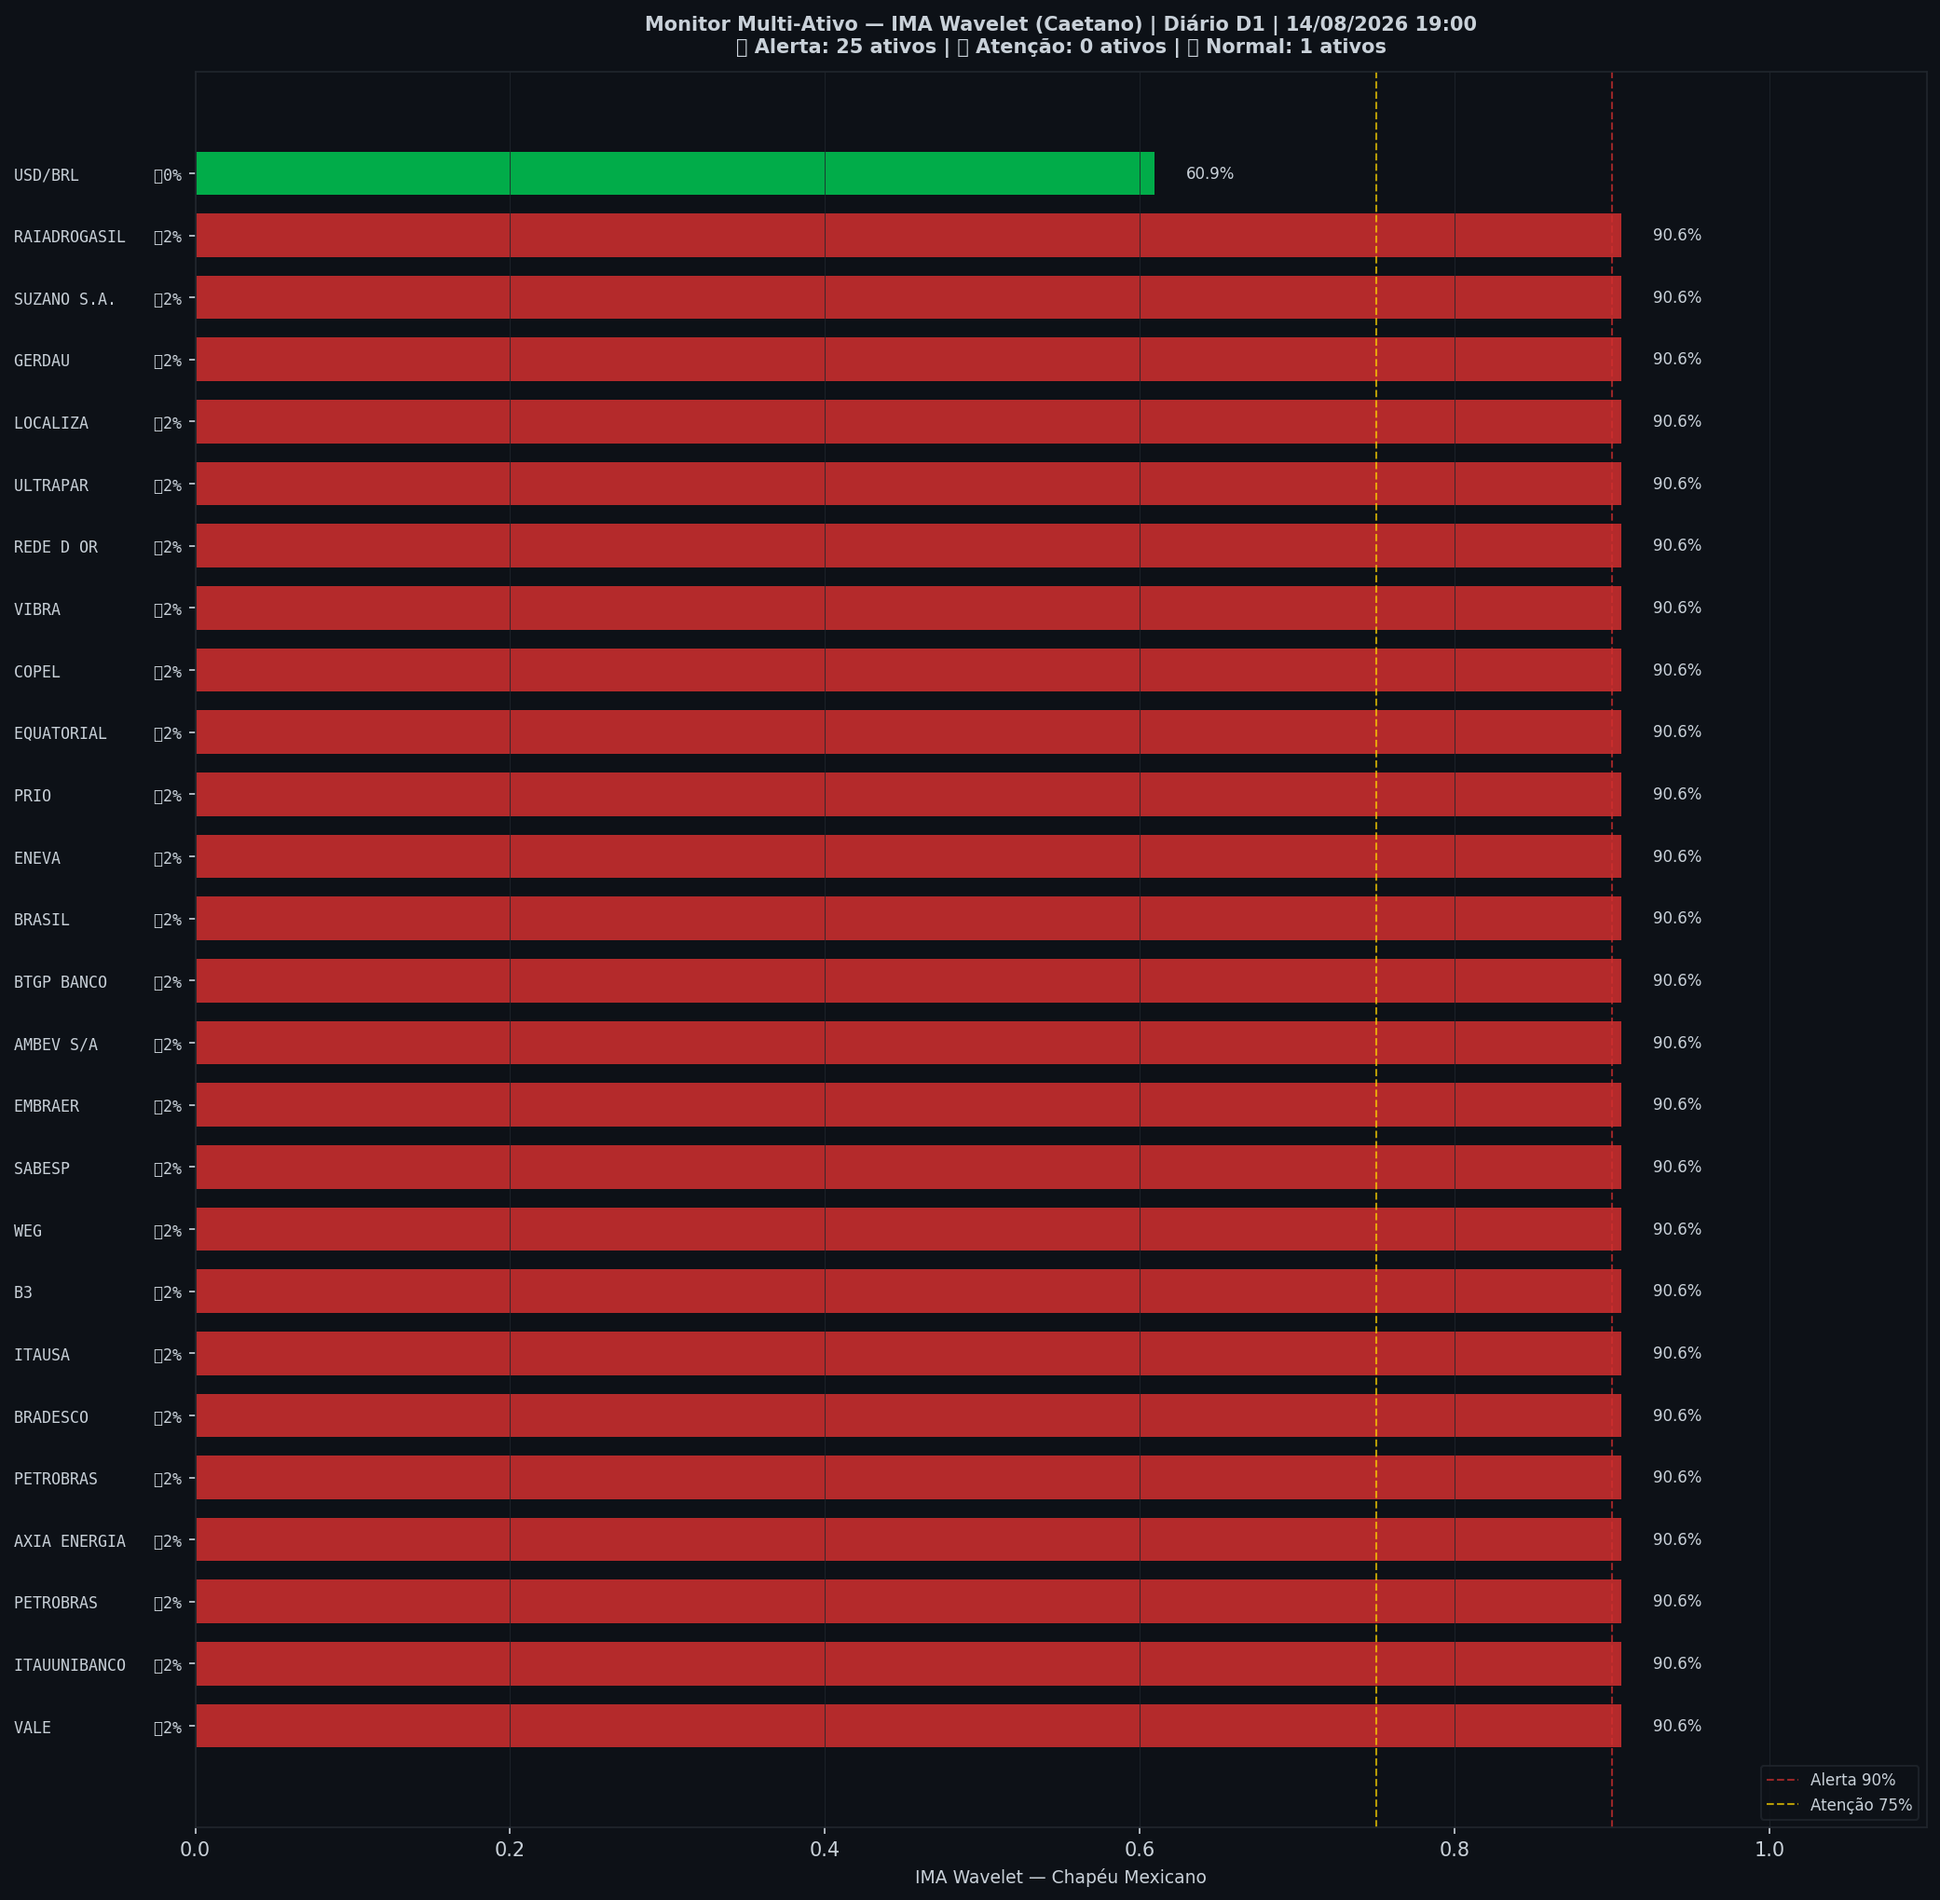
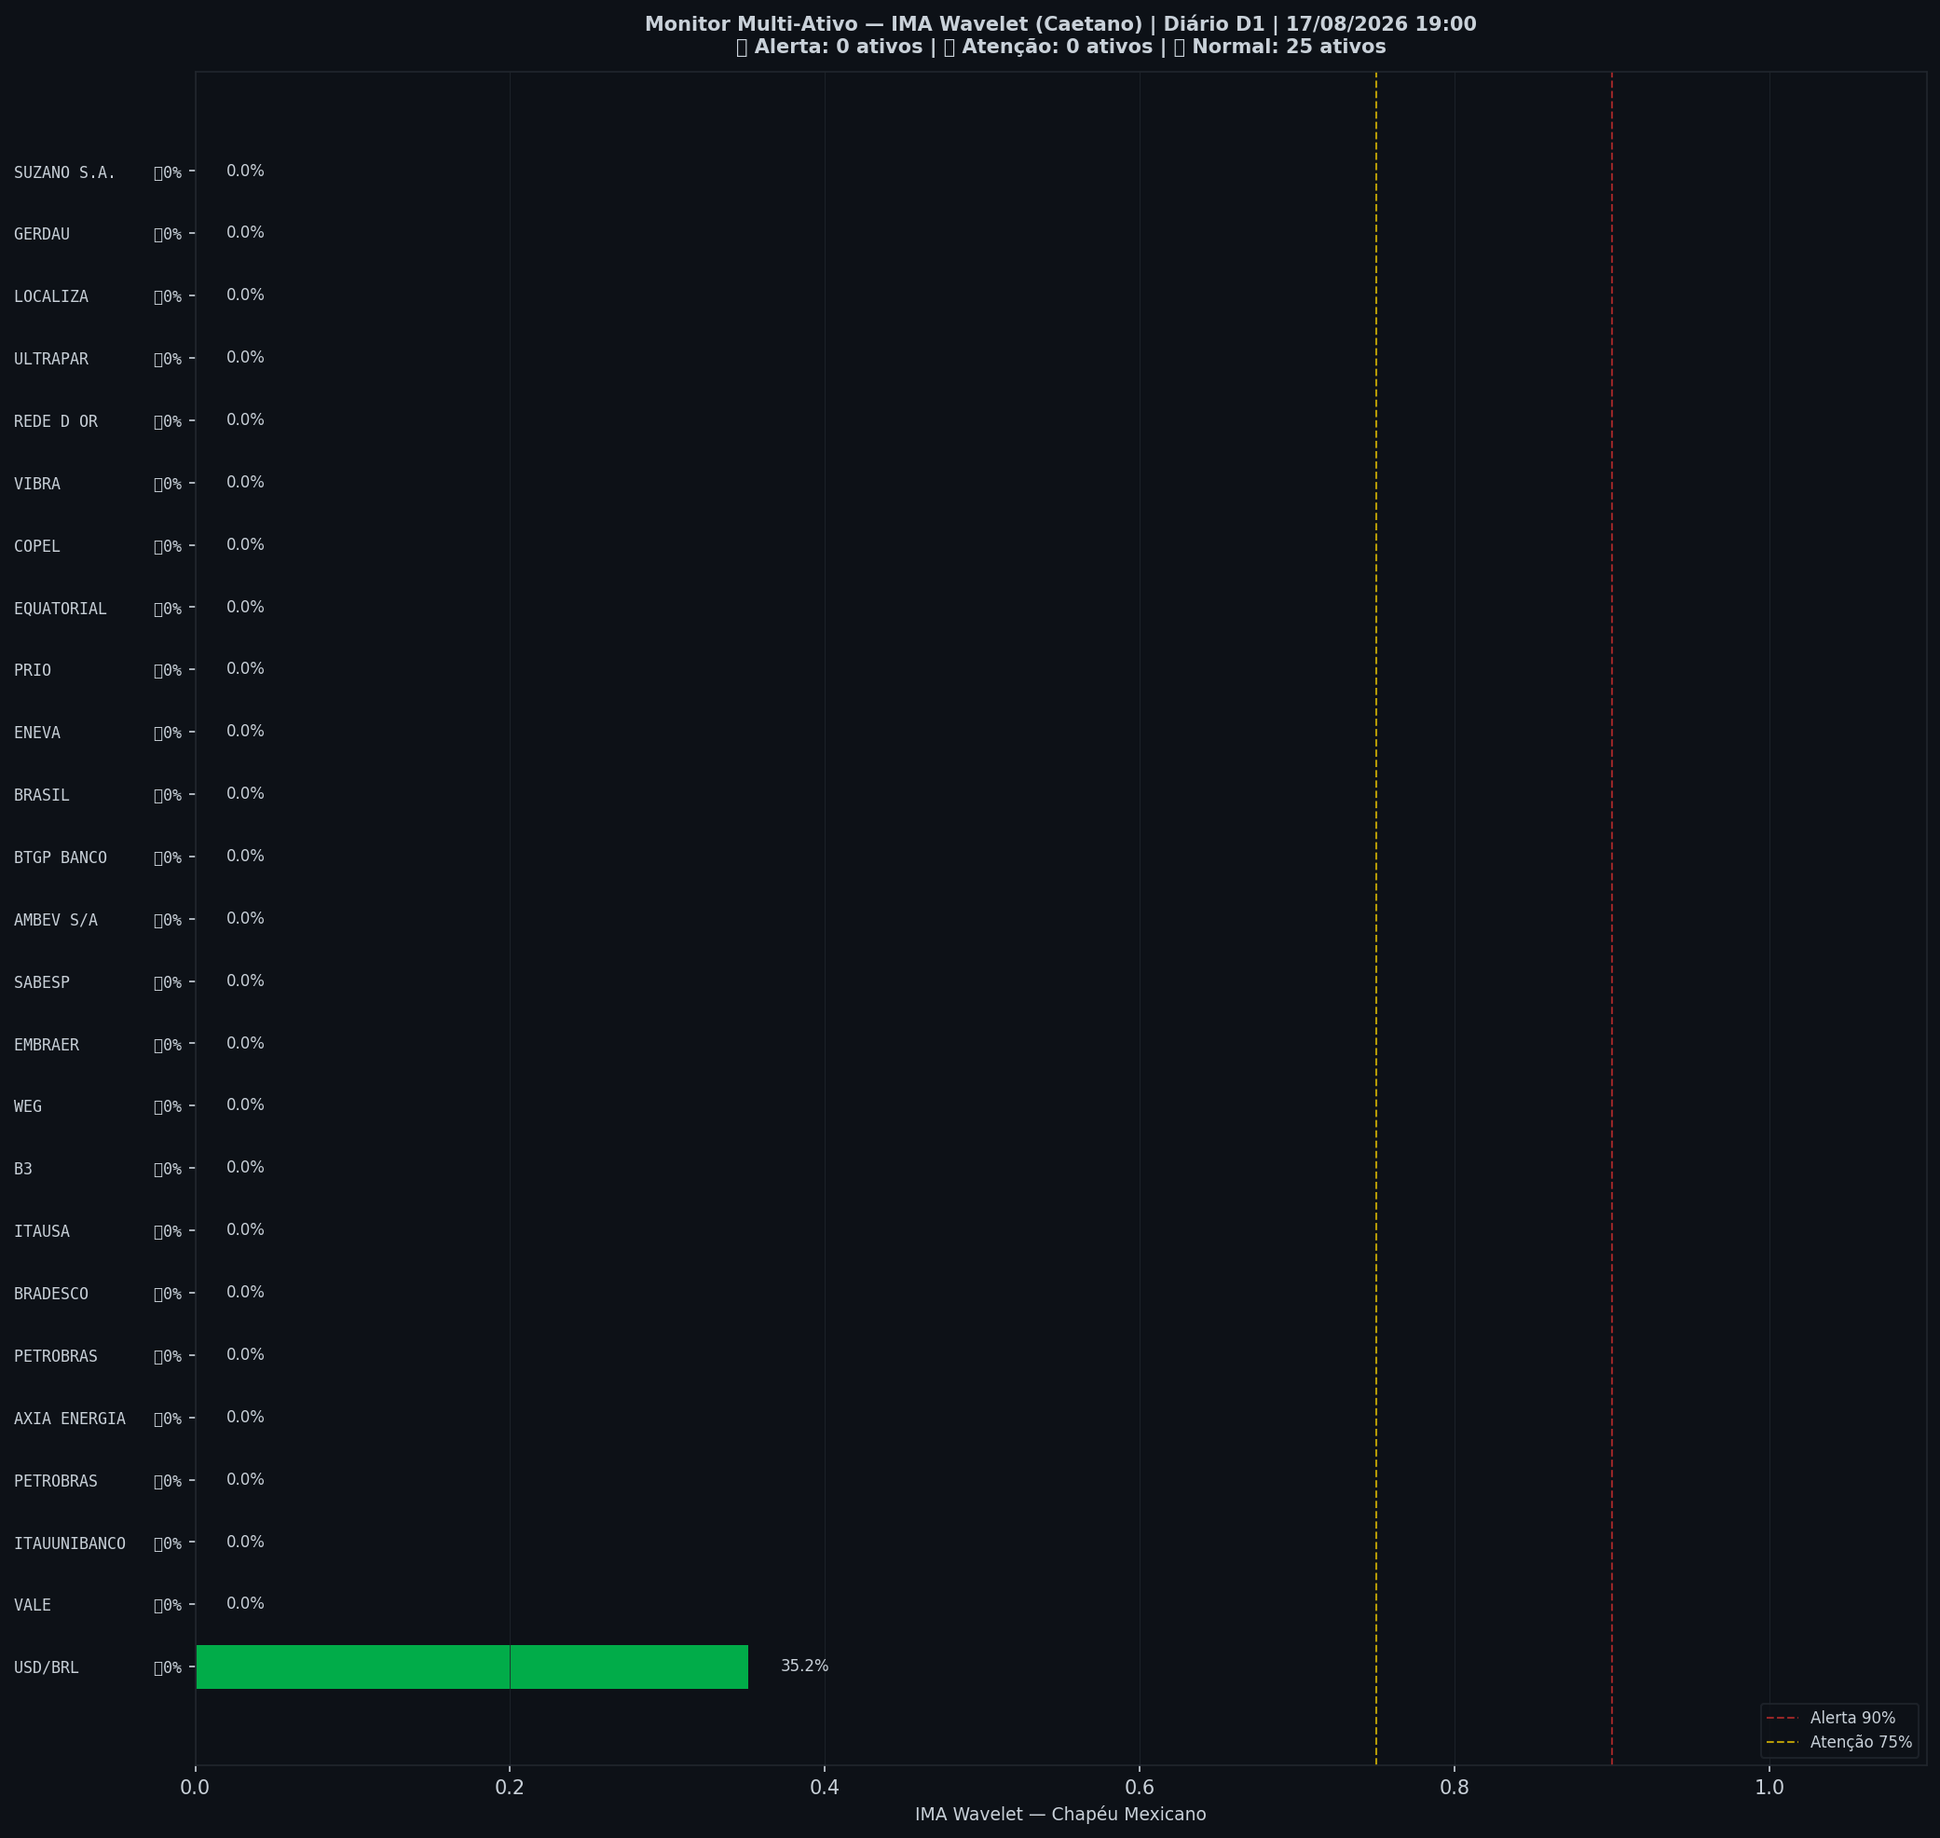
🤖 Auto: Sinal 17/08/2026 19:00

diff --git a/content/diario/2026-08-16.md b/content/diario/2026-08-16.md
@@ -1,0 +1,103 @@
+---
+title: "🟢 Diário 16/08/2026 — VERDE"
+date: 2026-08-17
+tags: [diario]
+---
+
+> [!success] 🟢 **VERDE** — Risco 0% · ＝ +0 p.p. vs leitura anterior
+> `░░░░░░░░░░░░░░░░░░░░`
+> Mercado sem sinais relevantes de estresse.
+
+
+| Indicador | Valor |
+|---|---|
+| 🔴 ζ Crash — severidade da queda em curso | **0%** |
+| 🔵 ζ Entrada — estrutura de fundo | 25% |
+| 🫧 LPPL DS-Confidence | 0% |
+| 📊 Ibovespa | 166.784 pts |
+
+![Gráfico do sinal](../graficos/sinal_diario.png)
+
+## Últimos 30 pregões
+
+| Data | Zona | Risco | IMA Crash | Entrada | LPPL |
+|---|---|---|---|---|---|
+| 2026-08-16 21:00 | 🟢 VERDE | **0%** | 0% | 25% | 0% |
+| 2026-08-13 21:00 | 🟢 VERDE | **0%** | 0% | 23% | 0% |
+| 2026-08-12 21:00 | 🟢 VERDE | **0%** | 0% | 20% | 0% |
+| 2026-08-11 21:00 | 🟢 VERDE | **0%** | 0% | 65% | 0% |
+| 2026-08-10 21:00 | 🟢 VERDE | **0%** | 1% | 62% | 0% |
+| 2026-08-09 21:00 | 🟢 VERDE | **1%** | 2% | 7% | 0% |
+| 2026-08-06 21:00 | 🟢 VERDE | **0%** | 1% | 48% | 0% |
+| 2026-08-05 21:00 | 🟢 VERDE | **0%** | 1% | 50% | 0% |
+| 2026-08-04 21:00 | 🟢 VERDE | **0%** | 0% | 55% | 0% |
+| 2026-08-03 21:00 | 🟢 VERDE | **0%** | 0% | 59% | 0% |
+| 2026-08-02 21:00 | 🟢 VERDE | **0%** | 0% | 62% | 0% |
+| 2026-07-30 21:00 | 🟢 VERDE | **0%** | 0% | 65% | 0% |
+| 2026-07-29 21:00 | 🟢 VERDE | **0%** | 0% | 68% | 0% |
+| 2026-07-28 21:00 | 🟢 VERDE | **0%** | 0% | 69% | 0% |
+| 2026-07-27 21:00 | 🟢 VERDE | **0%** | 1% | 68% | 0% |
+| 2026-07-26 21:00 | 🟢 VERDE | **0%** | 1% | 71% | 0% |
+| 2026-07-23 21:00 | 🟢 VERDE | **0%** | 0% | 71% | 0% |
+| 2026-07-22 21:00 | 🟢 VERDE | **0%** | 0% | 73% | 0% |
+| 2026-07-21 21:00 | 🟢 VERDE | **0%** | 0% | 77% | 0% |
+| 2026-07-20 21:00 | 🟢 VERDE | **0%** | 0% | 80% | 0% |
+| 2026-07-19 21:00 | 🟢 VERDE | **0%** | 1% | 79% | 0% |
+| 2026-07-16 21:00 | 🟢 VERDE | **0%** | 0% | 80% | 0% |
+| 2026-07-15 21:00 | 🟢 VERDE | **0%** | 1% | 80% | 0% |
+| 2026-07-14 21:00 | 🟢 VERDE | **1%** | 2% | 81% | 0% |
+| 2026-07-13 21:00 | 🟢 VERDE | **0%** | 1% | 85% | 0% |
+| 2026-07-12 21:00 | 🟢 VERDE | **0%** | 0% | 91% | 0% |
+| 2026-07-09 21:00 | 🟢 VERDE | **0%** | 0% | 91% | 0% |
+| 2026-07-08 21:00 | 🟢 VERDE | **0%** | 1% | 94% | 0% |
+| 2026-07-07 21:00 | 🟢 VERDE | **0%** | 1% | 93% | 0% |
+| 2026-07-06 21:00 | 🟢 VERDE | **0%** | 0% | 91% | 0% |
+
+## Monitor Multi-Ativo
+
+**0% dos ativos em tensão** (0🔴 0🟡) — quanto mais ativos disparam juntos, mais confiável o sinal.
+
+| Zona | Ativo | Setor | IMA Crash | IMA Entrada |
+|---|---|---|---|---|
+| 🟢 | **USD/BRL** | Câmbio | 35.2% | 0.0% |
+| 🟢 | **VALE** | Mineração | 0.0% | 0.0% |
+| 🟢 | **ITAUUNIBANCO** | Financeiro | 0.0% | 0.0% |
+| 🟢 | **PETROBRAS** | Petróleo | 0.0% | 0.0% |
+| 🟢 | **AXIA ENERGIA** | Energia | 0.0% | 0.0% |
+| 🟢 | **PETROBRAS** | Petróleo | 0.0% | 0.0% |
+| 🟢 | **BRADESCO** | Financeiro | 0.0% | 0.0% |
+| 🟢 | **ITAUSA** | Financeiro | 0.0% | 0.0% |
+| 🟢 | **B3** | Financeiro | 0.0% | 0.0% |
+| 🟢 | **WEG** | Industrial | 0.0% | 0.0% |
+| 🟢 | **EMBRAER** | Outros | 0.0% | 0.0% |
+| 🟢 | **SABESP** | Saneamento | 0.0% | 0.0% |
+| 🟢 | **AMBEV S/A** | Consumo | 0.0% | 0.0% |
+| 🟢 | **BTGP BANCO** | Financeiro | 0.0% | 0.0% |
+| 🟢 | **BRASIL** | Financeiro | 0.0% | 0.0% |
+| 🟢 | **ENEVA** | Energia | 0.0% | 0.0% |
+| 🟢 | **PRIO** | Petróleo | 0.0% | 0.0% |
+| 🟢 | **EQUATORIAL** | Energia | 0.0% | 0.0% |
+| 🟢 | **COPEL** | Energia | 0.0% | 0.0% |
+| 🟢 | **VIBRA** | Energia | 0.0% | 0.0% |
+| 🟢 | **REDE D OR** | Saúde | 0.0% | 0.0% |
+| 🟢 | **ULTRAPAR** | Outros | 0.0% | 0.0% |
+| 🟢 | **LOCALIZA** | Aluguel | 0.0% | 0.0% |
+| 🟢 | **GERDAU** | Siderurgia | 0.0% | 0.0% |
+| 🟢 | **SUZANO S.A.** | Papel/Celulose | 0.0% | 0.0% |
+
+![Monitor multi-ativo](../graficos/multi_diario.png)
+
+*Página atualizada em 17/08/2026 19:00 BRT (leitura da barra de 2026-08-16 BRT).*
+
+> [!info]- Como interpretar (clique para expandir)
+> - **ζ Crash**: fração dos coeficientes wavelet acima do corte (Caetano & Yoneyama 2009). Escala absoluta: ζ=0,90 = 90% dos coeficientes anômalos — historicamente, quedas com ζ≥0,90 foram mais fundas e mais longas. **Mede a severidade do movimento em curso, não prevê o início da queda.**
+> - **ζ Entrada**: coeficientes negativos além do corte — estrutura de fundo, possível região de compra.
+> - **LPPL DS-Confidence**: fração de janelas (60–504 pregões) em que o modelo de bolha de Sornette produz um ajuste válido. 30% já é relevante; acima de 50% é forte evidência de estrutura de bolha.
+> - **Zonas com histerese**: o sinal só muda de zona ao cruzar o limiar de entrada, e só volta ao cruzar o de saída — evita flip-flop diário.
+
+
+---
+*Sinal de Crise B3 v4 · IMA Wavelet ([Caetano & Yoneyama, Physica-A 2007](https://doi.org/10.1016/j.physa.2007.03.054)) + LPPL DS-Confidence (Sornette, ETH-Zurich) · [Metodologia](metodologia) · [Histórico](historico)*
+
+> [!quote]- Aviso
+> Estudo acadêmico. Não constitui recomendação de investimento.

diff --git a/content/index.md b/content/index.md
@@ -4,23 +4,23 @@ date: 2026-08-17
 tags: [home]
 ---
 
-# 🔴 Sinal de Crise B3
+# 🟢 Sinal de Crise B3
 
 Monitoramento diário e intraday do Ibovespa — **IMA Wavelet** (Prof. Marco Antonio Leonel Caetano, ITA/INSPER) + **LPPL DS-Confidence** (Prof. Didier Sornette, ETH-Zurich).
 
-*Última atualização: 17/08/2026 17:30 BRT · ^BVSP · Intraday 15min · v4*
+*Última atualização: 17/08/2026 19:00 BRT · ^BVSP · Diário D1 · v4*
 
-> [!danger] 🔴 **VERMELHO** — Risco 89% · ▼ -3 p.p. vs leitura anterior
-> `██████████████████░░`
-> ALERTA DE CRISE — padrão pré-crise detectado.
+> [!success] 🟢 **VERDE** — Risco 0% · ＝ +0 p.p. vs leitura anterior
+> `░░░░░░░░░░░░░░░░░░░░`
+> Mercado sem sinais relevantes de estresse.
 
 
 | Indicador | Valor |
 |---|---|
-| 🔴 ζ Crash — severidade da queda em curso | **89%** |
-| 🔵 ζ Entrada — estrutura de fundo | 0% |
+| 🔴 ζ Crash — severidade da queda em curso | **0%** |
+| 🔵 ζ Entrada — estrutura de fundo | 25% |
 | 🫧 LPPL DS-Confidence | 0% |
-| 📊 Ibovespa | 166.955 pts |
+| 📊 Ibovespa | 166.784 pts |
 
 **Multi-ativo:** 0% em tensão (0🔴 0🟡 de 25 ativos)
 
@@ -32,8 +32,13 @@ Monitoramento diário e intraday do Ibovespa — **IMA Wavelet** (Prof. Marco An
 
 | Data | Zona | Risco | IMA | LPPL |
 |---|---|---|---|---|
-| [17 Aug 2026](diario/2026-08-17) | 🔴 VERMELHO | **89%** | 89% | 0% |
-| [14 Aug 2026](diario/2026-08-14) | 🔴 VERMELHO | **98%** | 98% | 0% |
+| [16 Aug 2026](diario/2026-08-16) | 🟢 VERDE | **0%** | 0% | 0% |
+| [13 Aug 2026](diario/2026-08-13) | 🟢 VERDE | **0%** | 0% | 0% |
+| [12 Aug 2026](diario/2026-08-12) | 🟢 VERDE | **0%** | 0% | 0% |
+| [11 Aug 2026](diario/2026-08-11) | 🟢 VERDE | **0%** | 0% | 0% |
+| [10 Aug 2026](diario/2026-08-10) | 🟢 VERDE | **0%** | 1% | 0% |
+| [09 Aug 2026](diario/2026-08-09) | 🟢 VERDE | **1%** | 2% | 0% |
+| [06 Aug 2026](diario/2026-08-06) | 🟢 VERDE | **0%** | 1% | 0% |
 
 ## Navegação
 

diff --git a/content/historico.md b/content/historico.md
@@ -7,6 +7,7 @@ tags: [historico]
 
 | Data | Modo | Zona | Risco | IMA | LPPL |
 |---|---|---|---|---|---|
+| 2026-08-16 | diario | 🟢 VERDE | 0% | 0% | 0% |
 | 2026-08-17 16:45 | intraday | 🔴 VERMELHO | 89% | 89% | 0% |
 | 2026-08-17 16:30 | intraday | 🔴 VERMELHO | 92% | 92% | 0% |
 | 2026-08-17 16:15 | intraday | 🔴 VERMELHO | 91% | 91% | 0% |
